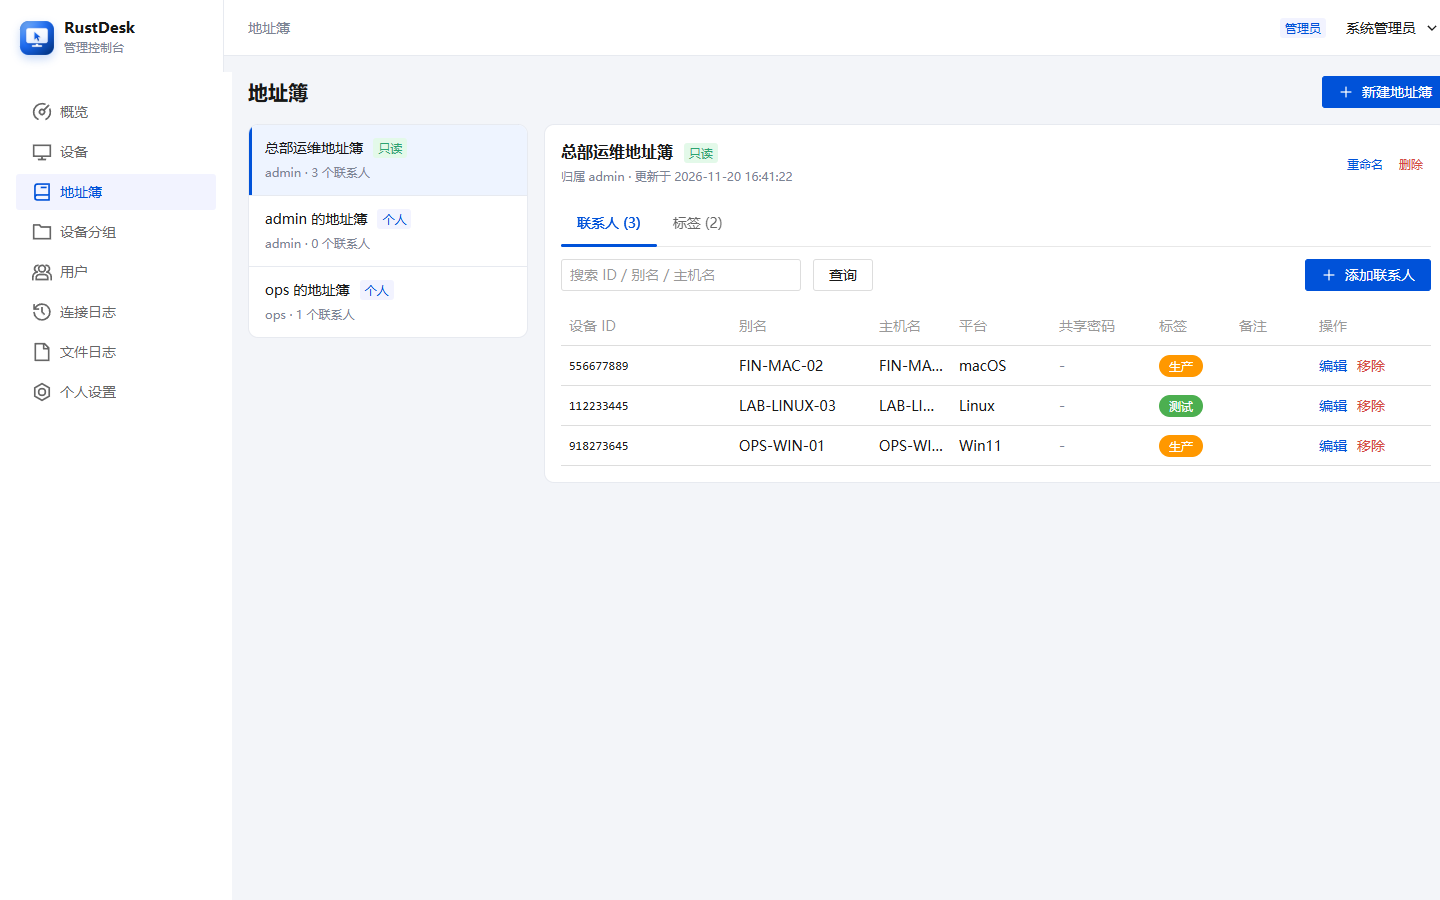
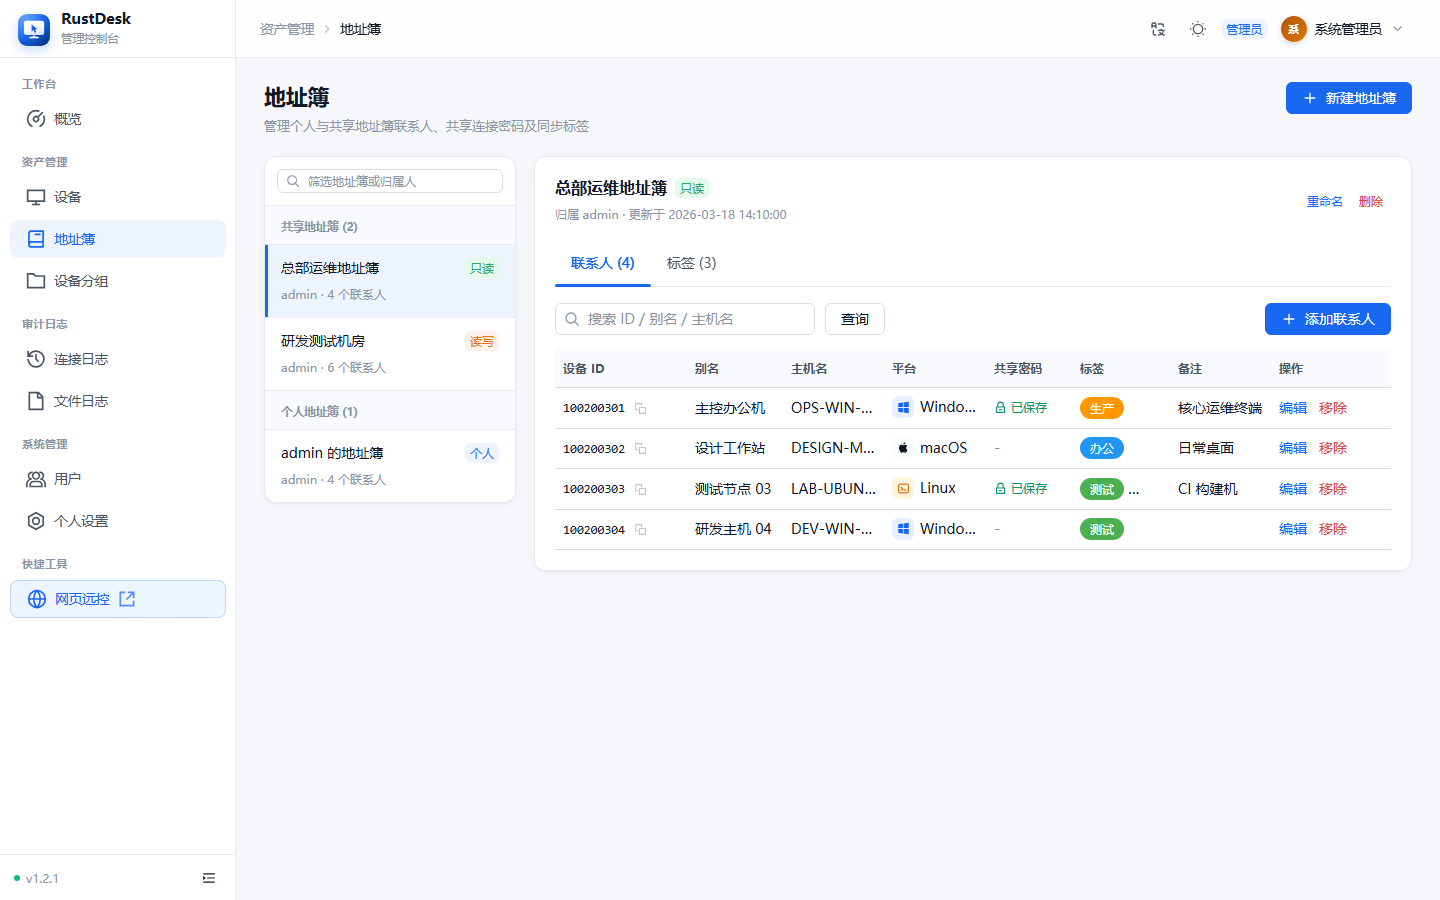
release: v1.2.1

diff --git a/version.py b/version.py
@@ -1,1 +1,1 @@
-APP_VERSION = "v1.2.0"
+APP_VERSION = "v1.2.1"

diff --git a/README_EN.md b/README_EN.md
@@ -4,13 +4,19 @@ Optional third-party sign-in with multiple providers side by side — generic OI
 
 [简体中文](README.md) · [Deployment guide](docs/deployment.md) · [Web client](docs/webclient.md) · [Client API](docs/client_api_contract.md) · [Console API](docs/console_api.md) · [OIDC sign-in](docs/oidc.md)
 
-A Django API server, Vue/TDesign console, and built-in Web client for self-hosted RustDesk. It adds accounts, address books, device ownership, browser remote desktop (shared session login, instant disconnect on logout, personal address book saved-password autofill), and connection/file audit logs to an existing hbbs/hbbr deployment.
+A Django API server, Vue/TDesign console (with light/dark/system themes and Chinese/English switching), and built-in Web client for self-hosted RustDesk. It adds accounts, address books, device ownership, browser remote desktop (shared session login, instant disconnect on logout, personal address book saved-password autofill), and connection/file audit logs to an existing hbbs/hbbr deployment.
 
 [![CI](https://github.com/yunxilyf/rustdesk-api/actions/workflows/ci.yml/badge.svg)](https://github.com/yunxilyf/rustdesk-api/actions/workflows/ci.yml)
 ![RustDesk 1.5.x](https://img.shields.io/badge/RustDesk-1.5.x-0A5BE0)
 [![MIT](https://img.shields.io/badge/License-MIT-green)](LICENSE)
 
-![RustDesk API console](images/console_dashboard.png)
+## Console
+
+| Dashboard | Devices |
+| --- | --- |
+| ![Dashboard](images/console_dashboard_en.png) | ![Devices](images/console_devices_en.png) |
+| **Address Books** | **Users** |
+| ![Address Books](images/console_addressbook_en.png) | ![Users](images/console_users_en.png) |
 
 ## Run locally
 

diff --git a/docs/console_api.md b/docs/console_api.md
@@ -142,5 +142,6 @@ provider 配置和 `OidcLogin` 状态表，区别只有两点：
 - 依赖：`vue@3`、`vue-router@4`、`tdesign-vue-next`、`tdesign-icons-vue-next`、`vite`、`@vitejs/plugin-vue`
 - 开发代理：`/api` → `http://127.0.0.1:21114`
 - 路由：`/console/` 用 hash 路由（`createWebHashHistory`），避免 Django 端 404
-- 页面：登录、概览、设备、地址簿（主从：左列表右联系人+标签）、分组、用户、连接日志、文件日志、个人设置
-- 统一处理 401 → 跳登录页；403 → `MessagePlugin.error('无权限')`
+- 页面：登录（双栏布局）、概览（KPI + 最近连接 + 在线设备速览）、设备（含硬件详情抽屉）、地址簿（主从：左筛选分组列表 + 右联系人/标签）、分组、用户、连接日志、文件日志、个人设置（分标签页）
+- 外观与多语言：支持浅色 / 深色 / 跟随系统主题（`theme-mode`）与简体中文 / English 实时切换（联动 TDesign `ConfigProvider`）
+- 统一处理 401 → 跳登录页；403 → `MessagePlugin.error(...)`

diff --git a/README.md b/README.md
@@ -2,7 +2,7 @@
 
 [English](README_EN.md) · [部署指南](docs/deployment.md) · [网页远控](docs/webclient.md) · [客户端 API](docs/client_api_contract.md) · [控制台 API](docs/console_api.md) · [OIDC 登录](docs/oidc.md)
 
-为自建 RustDesk 提供账号、地址簿、设备与审计服务。API 由 Django 提供，管理控制台使用 Vue 3 和 TDesign。侧栏显示当前版本，设置页可一键检查 GitHub 上的新版本。
+为自建 RustDesk 提供账号、地址簿、设备与审计服务。API 由 Django 提供，管理控制台使用 Vue 3 和 TDesign，支持浅色 / 深色 / 跟随系统主题与中英文切换。侧栏显示当前版本，设置页可一键检查 GitHub 上的新版本。
 
 [![CI](https://github.com/yunxilyf/rustdesk-api/actions/workflows/ci.yml/badge.svg)](https://github.com/yunxilyf/rustdesk-api/actions/workflows/ci.yml)
 ![Python 3.12+](https://img.shields.io/badge/Python-3.12%2B-3776AB)
